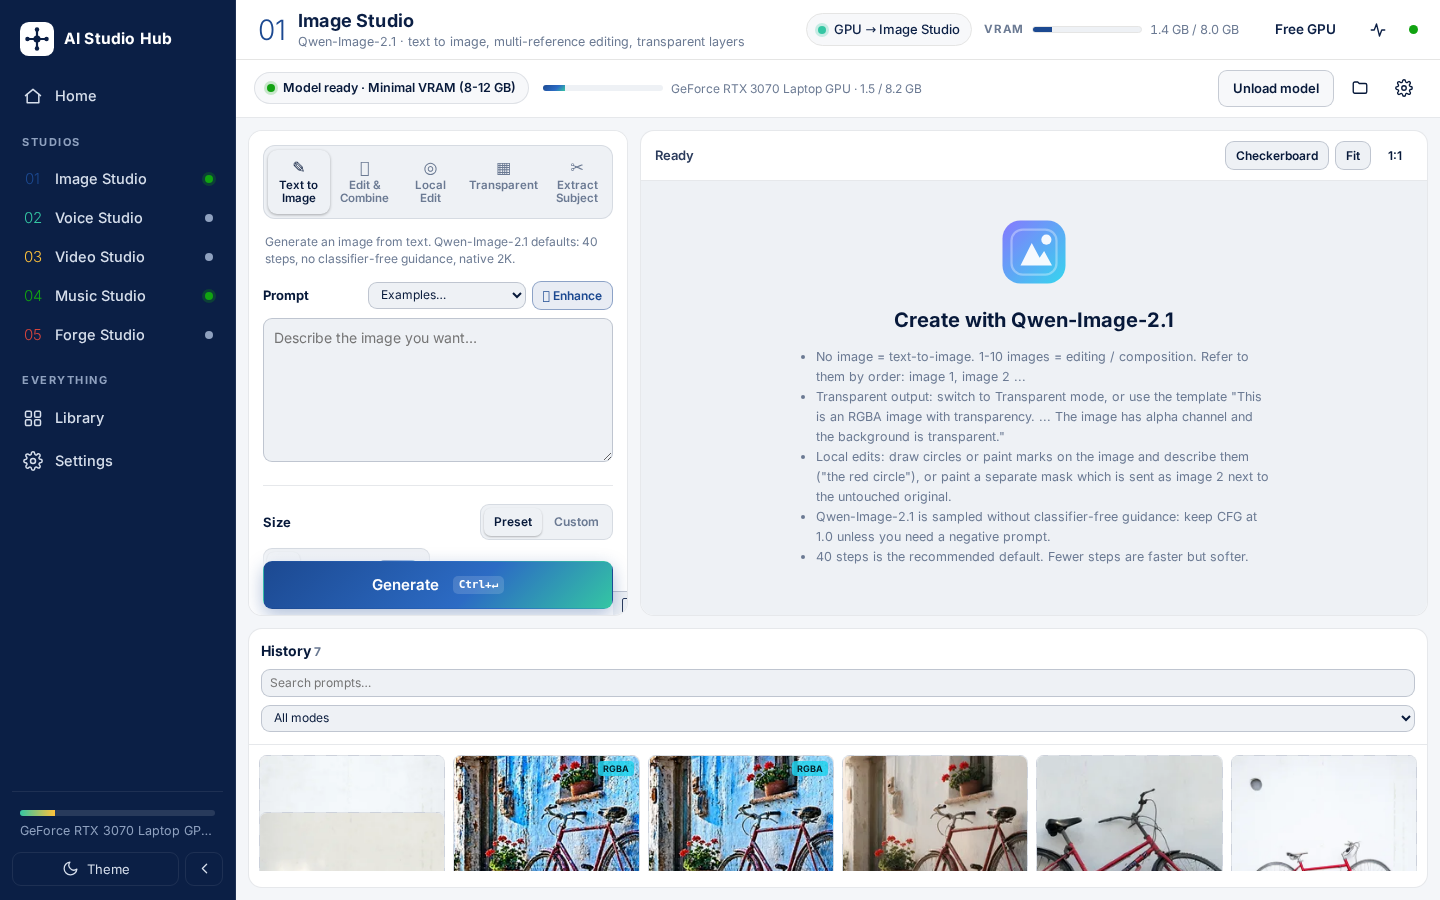
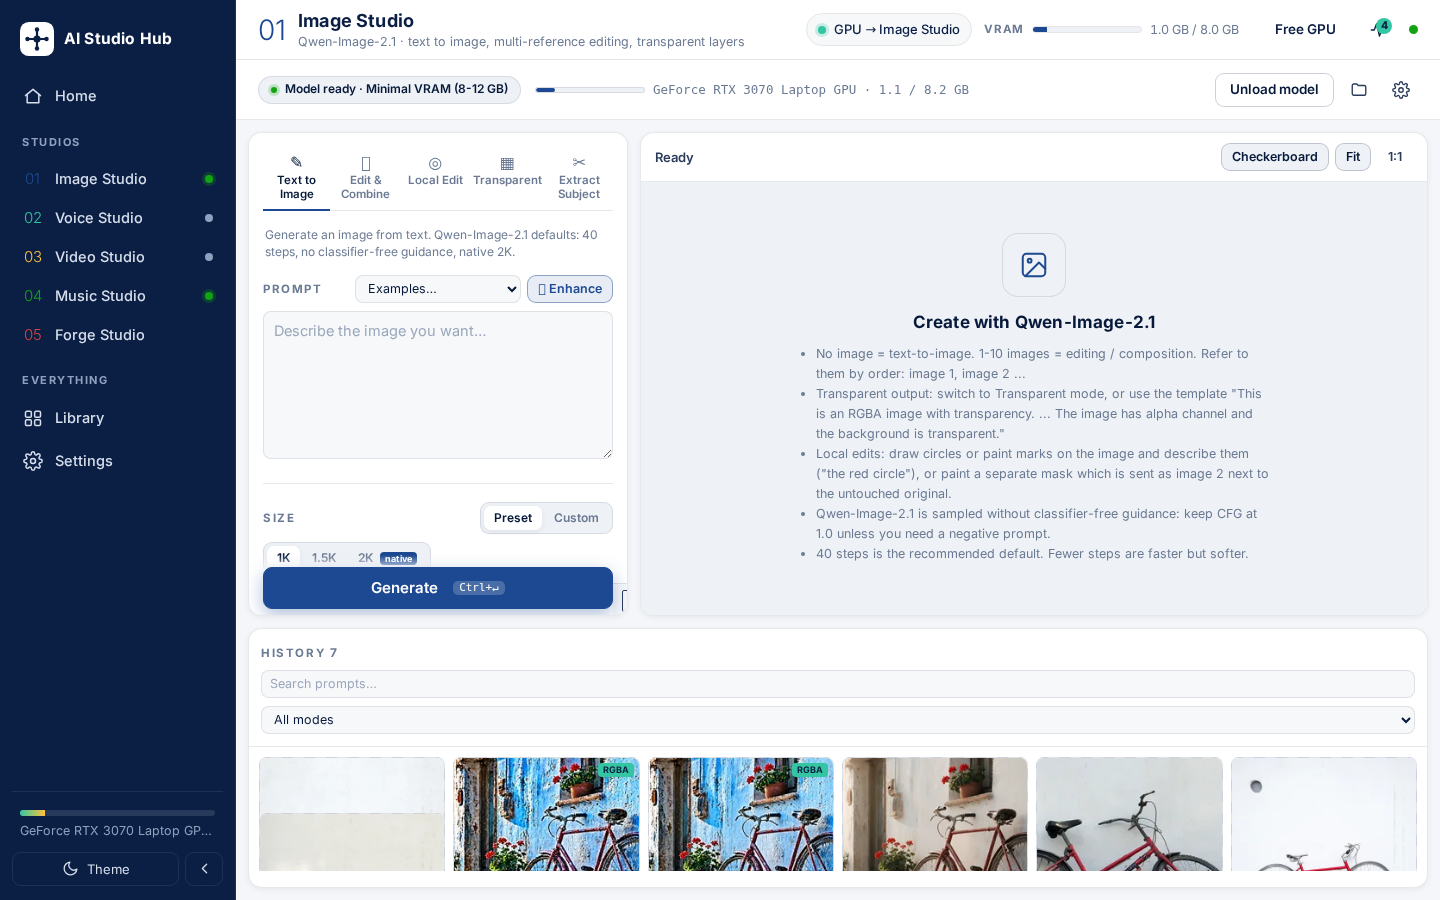
One design language for the hub and every studio
docs/design.md is the shared spec: tokens for light and dark, the studios'
signature colours, type, shapes, top bar and theme mechanics. Each studio now
implements it natively in its own repository (Image, Voice, Video, Music and
Forge, both its Gradio UI and its Studio app), so a studio looks the same on
its own and inside the hub.

The hub therefore stops restyling them: the bridge only keeps data-theme and
the dark class in step with the shell, and the per-studio files under
brand/tools/ are reduced to hiding the studio's brand block and theme toggle,
which the shell shows itself. The job chip in the top bar truncates instead of
pushing the actions off the bar. Screenshot of a studio inside the shell
refreshed.

diff --git a/hub/web/brand/tools/forge.css b/hub/web/brand/tools/forge.css
@@ -1,32 +1,4 @@
-/* Hub theme for Forge Studio (Stable Diffusion WebUI Forge - a Gradio 4 app). Maps Gradio's theme
-   variables; Forge's own layout, panels and controls are untouched. */
-html:root[data-hub-theme="light"] {
-  --body-background-fill: #F4F6F9; --background-fill-primary: #FFFFFF; --background-fill-secondary: #F7F8FA;
-  --block-background-fill: #FFFFFF; --panel-background-fill: #F7F8FA; --input-background-fill: #FFFFFF;
-  --border-color-primary: rgba(7, 25, 58, .12); --block-border-color: rgba(7, 25, 58, .12);
-  --input-border-color: rgba(7, 25, 58, .2); --body-text-color: #07193A; --body-text-color-subdued: #6B7A93;
-  --block-label-text-color: #2B3B5C; --block-title-text-color: #07193A;
-  --button-primary-background-fill: #1C4991; --button-primary-background-fill-hover: #2C6BC4;
-  --button-primary-border-color: #1C4991; --button-primary-text-color: #FFFFFF;
-  --button-secondary-background-fill: #EEF1F5; --button-secondary-text-color: #07193A;
-  --checkbox-background-color-selected: #1C4991; --slider-color: #1C4991; --link-text-color: #1C4991;
-  --color-accent: #1C4991; --color-accent-soft: rgba(28, 73, 145, .12);
-  --block-radius: 10px; --button-large-radius: 9px; --button-small-radius: 7px; --input-radius: 8px;
-}
-html:root[data-hub-theme="dark"] {
-  --body-background-fill: #061027; --background-fill-primary: #0B1B3B; --background-fill-secondary: #10244D;
-  --block-background-fill: #0B1B3B; --panel-background-fill: #10244D; --input-background-fill: #081633;
-  --border-color-primary: rgba(255, 255, 255, .1); --block-border-color: rgba(255, 255, 255, .1);
-  --input-border-color: rgba(255, 255, 255, .18); --body-text-color: #F2F5FA; --body-text-color-subdued: #8FA1BF;
-  --block-label-text-color: #C9D4E6; --block-title-text-color: #F2F5FA;
-  --button-primary-background-fill: #3F6FD1; --button-primary-background-fill-hover: #5A88E6;
-  --button-primary-border-color: #3F6FD1; --button-primary-text-color: #FFFFFF;
-  --button-secondary-background-fill: #162D5C; --button-secondary-text-color: #F2F5FA;
-  --checkbox-background-color-selected: #3F6FD1; --slider-color: #34C6A3; --link-text-color: #9dbcf5;
-  --color-accent: #3F6FD1; --color-accent-soft: rgba(63, 111, 209, .2);
-  --block-radius: 10px; --button-large-radius: 9px; --button-small-radius: 7px; --input-radius: 8px;
-}
-html:root[data-hub-theme] body, html:root[data-hub-theme] gradio-app { background: var(--body-background-fill) !important; }
-/* The shell already names the studio: hide Forge's own title/tab strip decoration, keep the tabs. */
-html:root[data-hub-theme] #tabs > .tab-nav { border-bottom-color: var(--border-color-primary); }
+/* Hub rules for Forge Studio. Forge's user.css and its Studio SPA implement the shared design language
+   natively (see docs/design.md) and honour html[data-theme] / .dark; the hub only hides what the shell shows. */
 html:root[data-hub-theme] #footer, html:root[data-hub-theme] .footer { display: none !important; }
+html:root[data-hub-theme] .brand, html:root[data-hub-theme] .theme-toggle { display: none !important; }

diff --git a/hub/web/brand/tools/image.css b/hub/web/brand/tools/image.css
@@ -1,28 +1,4 @@
-/* Hub theme for Image Studio (Qwen Image Studio). Maps the tool's own CSS variables. */
-html:root[data-hub-theme="light"] {
-  --bg: #F4F6F9; --bg-2: #EEF1F5; --panel: #FFFFFF; --panel-2: #F7F8FA; --panel-3: #EEF1F5;
-  --line: rgba(7, 25, 58, .10); --line-2: rgba(7, 25, 58, .20);
-  --text: #07193A; --text-2: #2B3B5C; --muted: #6B7A93;
-  --accent: #1C4991; --accent-2: #34C6A3; --accent-grad: linear-gradient(135deg, #1C4991 0%, #2C6BC4 60%, #34C6A3 100%);
-  --ok: #11A311; --warn: #C99400; --danger: #D6453D;
-  --shadow: 0 10px 30px rgba(7, 25, 58, .10);
-  --checker: repeating-conic-gradient(#e2e6ee 0 25%, #f8fafc 0 50%) 0 0 / 22px 22px;
-}
-html:root[data-hub-theme="dark"] {
-  --bg: #061027; --bg-2: #081633; --panel: #0B1B3B; --panel-2: #10244D; --panel-3: #162D5C;
-  --line: rgba(255, 255, 255, .09); --line-2: rgba(255, 255, 255, .18);
-  --text: #F2F5FA; --text-2: #C9D4E6; --muted: #8FA1BF;
-  --accent: #3F6FD1; --accent-2: #34C6A3; --accent-grad: linear-gradient(135deg, #3F6FD1 0%, #34C6A3 100%);
-  --ok: #3ACB5A; --warn: #FFC23B; --danger: #F07171;
-  --shadow: 0 10px 30px rgba(0, 0, 0, .35);
-  --checker: repeating-conic-gradient(#1a2a4d 0 25%, #10203f 0 50%) 0 0 / 22px 22px;
-}
-html:root[data-hub-theme] .btn.primary { box-shadow: 0 6px 18px rgba(28, 73, 145, .35); }
-html:root[data-hub-theme] .btn.accent { border-color: rgba(28, 73, 145, .45); color: var(--accent); background: rgba(28, 73, 145, .10); }
-html:root[data-hub-theme="dark"] .btn.accent { color: #9dbcf5; border-color: rgba(63, 111, 209, .55); background: rgba(63, 111, 209, .16); }
-html:root[data-hub-theme] .btn.danger { color: var(--danger); border-color: rgba(214, 69, 61, .5); background: rgba(214, 69, 61, .10); }
-html:root[data-hub-theme] .pill.state-ready .dot { box-shadow: 0 0 0 3px rgba(17, 163, 17, .2); }
-html:root[data-hub-theme] .pill.state-loading .dot { box-shadow: 0 0 0 3px rgba(52, 198, 163, .25); background: #34C6A3; }
-/* The shell already shows the studio's name: hide the tool's own brand block, keep its status and actions. */
-html:root[data-hub-theme] .topbar .brand { display: none !important; }
+/* Hub rules for Image Studio. The studio implements the shared design language natively (see docs/design.md)
+   and honours html[data-theme]; the hub only hides what the shell already shows. */
+html:root[data-hub-theme] .brand { display: none !important; }
 html:root[data-hub-theme] .topbar { border-bottom-color: var(--line); }

diff --git a/hub/web/brand/tools/video.css b/hub/web/brand/tools/video.css
@@ -1,22 +1,3 @@
-/* Hub theme for Video Studio (Lumen). Lumen uses Tailwind v4 theme variables (--color-*). */
-html:root[data-hub-theme="dark"] {
-  --color-bg: #061027; --color-panel: #0B1B3B; --color-panel-2: #10244D; --color-panel-3: #162D5C;
-  --color-line: rgba(255, 255, 255, .09); --color-line-2: rgba(255, 255, 255, .2);
-  --color-text: #F2F5FA; --color-muted: #8FA1BF; --color-dim: #5F7194;
-  --color-accent: #3F6FD1; --color-accent-2: #7FA7F0; --color-accent-soft: rgba(63, 111, 209, .18);
-  --color-ok: #3ACB5A; --color-warn: #FFC23B; --color-danger: #F07171; --color-info: #7FB2FF;
-}
-html:root[data-hub-theme="light"] {
-  --color-bg: #F4F6F9; --color-panel: #FFFFFF; --color-panel-2: #F7F8FA; --color-panel-3: #EEF1F5;
-  --color-line: #E5E5E4; --color-line-2: #CFD5DE;
-  --color-text: #07193A; --color-muted: #6B7A93; --color-dim: #9AA7BB;
-  --color-accent: #1C4991; --color-accent-2: #34C6A3; --color-accent-soft: rgba(28, 73, 145, .12);
-  --color-ok: #11A311; --color-warn: #C99400; --color-danger: #D6453D; --color-info: #1C4991;
-}
-html:root[data-hub-theme="light"] .glass { background: var(--color-panel); }
-html:root[data-hub-theme] * { scrollbar-color: var(--color-line-2) transparent; }
-html:root[data-hub-theme] *::-webkit-scrollbar-thumb { background: var(--color-line-2); }
-html:root[data-hub-theme] input[type="range"]::-webkit-slider-thumb { box-shadow: 0 0 0 4px var(--color-accent-soft); }
-/* The shell shows the studio's name: hide Lumen's logo block in its top bar. */
-html:root[data-hub-theme] header.h-14 > div:first-child { display: none !important; }
-html:root[data-hub-theme] header.h-14 > .mx-2.h-6.w-px { display: none !important; }
+/* Hub rules for Video Studio (Lumen). The studio implements the shared design language natively (see
+   docs/design.md) and honours html[data-theme] / html.dark; the hub only hides what the shell already shows. */
+html:root[data-hub-theme] .brand, html:root[data-hub-theme] .brand-sep, html:root[data-hub-theme] .theme-toggle { display: none !important; }

diff --git a/hub/web/brand/bridge.js b/hub/web/brand/bridge.js
@@ -15,8 +15,11 @@
     html.setAttribute("data-hub-theme", t);
     if (cfg.fonts) html.setAttribute("data-hub-fonts", "1"); else html.removeAttribute("data-hub-fonts");
     if (!cfg.restyle) { applying = false; return; }
-    if (cfg.tool === "image" || cfg.tool === "tts" || cfg.tool === "music") html.setAttribute("data-theme", t);
-    if (cfg.tool === "video") { html.classList.toggle("dark", t === "dark"); html.classList.toggle("light", t !== "dark"); }
+    // Every studio implements the shared design language natively and honours html[data-theme];
+    // the React and Gradio apps also read a "dark" class, so both are kept in step.
+    html.setAttribute("data-theme", t);
+    html.classList.toggle("dark", t === "dark"); html.classList.toggle("light", t !== "dark");
+    if (document.body) { document.body.classList.toggle("dark", t === "dark"); document.body.classList.toggle("light", t !== "dark"); }
     html.style.colorScheme = t;
     var meta = document.querySelector('meta[name="color-scheme"]');
     if (meta) meta.setAttribute("content", t);
@@ -31,8 +34,7 @@
     new MutationObserver(function () {
       if (applying) return;
       var want = theme;
-      if ((cfg.tool === "image" || cfg.tool === "tts" || cfg.tool === "music") && html.getAttribute("data-theme") !== want) applyTheme(want);
-      if (cfg.tool === "video" && html.classList.contains("dark") !== (want === "dark")) applyTheme(want);
+      if (html.getAttribute("data-theme") !== want || html.classList.contains("dark") !== (want === "dark")) applyTheme(want);
     }).observe(html, { attributes: true, attributeFilter: ["data-theme", "class"] });
   }
 

diff --git a/hub/web/brand/tools/music.css b/hub/web/brand/tools/music.css
@@ -1,22 +1,3 @@
-/* Hub theme for Music Studio (Music Gen Studio). Maps the tool's own CSS variables. */
-html:root[data-hub-theme="light"] {
-  --bg: #F4F6F9; --bg-2: #EEF1F5; --panel: #FFFFFF; --panel-2: #F7F8FA;
-  --border: #E5E5E4; --border-strong: #CFD5DE;
-  --text: #07193A; --muted: #6B7A93; --faint: #9AA7BB;
-  --accent: #1C4991; --accent-2: #34C6A3; --accent-ink: #FFFFFF;
-  --ok: #11A311; --danger: #D6453D; --info: #1C4991;
-  --shadow: 0 1px 2px rgba(7, 25, 58, .06), 0 8px 24px rgba(7, 25, 58, .06);
-  color-scheme: light;
-}
-html:root[data-hub-theme="dark"] {
-  --bg: #061027; --bg-2: #081633; --panel: #0B1B3B; --panel-2: #10244D;
-  --border: rgba(255, 255, 255, .10); --border-strong: rgba(255, 255, 255, .22);
-  --text: #F2F5FA; --muted: #8FA1BF; --faint: #5F7194;
-  --accent: #34C6A3; --accent-2: #7FE0C8; --accent-ink: #07193A;
-  --ok: #3ACB5A; --danger: #F07171; --info: #7FB2FF;
-  --shadow: 0 1px 0 rgba(255, 255, 255, .03) inset, 0 8px 30px rgba(0, 0, 0, .35);
-  color-scheme: dark;
-}
-html:root[data-hub-theme] header.topbar .brand { display: none !important; }
-html:root[data-hub-theme] .pill.busy .dot { background: #34C6A3; }
-html:root[data-hub-theme] .pill.share { color: var(--info); border-color: rgba(28, 73, 145, .35); }
+/* Hub rules for Music Studio. The studio implements the shared design language natively (see docs/design.md)
+   and honours html[data-theme]; the hub only hides what the shell already shows. */
+html:root[data-hub-theme] .brand, html:root[data-hub-theme] .theme-toggle, html:root[data-hub-theme] #btn-theme { display: none !important; }

diff --git a/hub/web/brand/tools/tts.css b/hub/web/brand/tools/tts.css
@@ -1,20 +1,3 @@
-/* Hub theme for Voice Studio (Text To Speech generator). Maps the tool's own CSS variables. */
-html:root[data-hub-theme="light"] {
-  --bg: #F4F6F9; --bg-2: #FFFFFF; --bg-3: #EEF1F5;
-  --text: #07193A; --muted: #6B7A93; --border: #E5E5E4;
-  --accent: #1C4991; --accent-2: #16397A; --accent-soft: #E3ECF9;
-  --danger: #D6453D; --danger-soft: #FBE5E3; --ok: #11A311; --warn: #C99400;
-  --shadow: 0 6px 24px rgba(7, 25, 58, .07);
-}
-html:root[data-hub-theme="dark"] {
-  --bg: #061027; --bg-2: #0B1B3B; --bg-3: #10244D;
-  --text: #F2F5FA; --muted: #8FA1BF; --border: rgba(255, 255, 255, .12);
-  --accent: #3F6FD1; --accent-2: #5F8BE6; --accent-soft: #16305F;
-  --danger: #F07171; --danger-soft: #4A1F22; --ok: #3ACB5A; --warn: #FFC23B;
-  --shadow: 0 6px 24px rgba(0, 0, 0, .35);
-}
-html:root[data-hub-theme] .topbar .brand { display: none !important; }
-html:root[data-hub-theme] .tab.active { color: var(--accent); border-bottom-color: #34C6A3; }
-html:root[data-hub-theme] .seg-btn.active { box-shadow: 0 1px 4px rgba(7, 25, 58, .10); }
-html:root[data-hub-theme] .dot.ready, html:root[data-hub-theme] .dot.ok { background: var(--ok); }
-html:root[data-hub-theme] .dot.loading { background: #34C6A3; }
+/* Hub rules for Voice Studio. The studio implements the shared design language natively (see docs/design.md)
+   and honours html[data-theme]; the hub only hides what the shell already shows. */
+html:root[data-hub-theme] .topbar .brand, html:root[data-hub-theme] .brand { display: none !important; }

diff --git a/hub/web/app.js b/hub/web/app.js
@@ -505,8 +505,8 @@
     ] },
     { title: "Appearance", lead: "The theme of the shell and, if you like, of the studios inside it.", fields: [
       { key: "theme", label: "Theme", type: "select", options: [["light", "Light"], ["dark", "Dark"]] },
-      { key: "restyle_tools", label: "Apply the hub theme inside the studios", type: "bool", help: "Turn off to see each tool's original look. Takes effect when a studio is reloaded." },
-      { key: "brand_fonts_in_tools", label: "Hub font inside the studios", type: "bool", help: "Use the hub's font (Inter) for headings and buttons inside the tools." },
+      { key: "restyle_tools", label: "Keep the studios' theme in step with the shell", type: "bool", help: "Light or dark follows the shell inside every studio. Turn off to let each studio keep its own setting. Takes effect when a studio is reloaded." },
+      { key: "brand_fonts_in_tools", label: "Hub font inside the studios", type: "bool", help: "Use the hub's font (Inter) for headings and buttons inside older studio versions that do not ship it themselves." },
     ] },
     { title: "Network", lead: "Changes here need a restart of the hub.", fields: [
       { key: "bind_host", label: "Listen on", type: "select", options: [["127.0.0.1", "This PC only"], ["0.0.0.0", "Everyone on my network"]], help: "Sharing on the network also needs a firewall rule for ports 7900-7905 (see README)." },

diff --git a/hub/web/styles.css b/hub/web/styles.css
@@ -104,6 +104,11 @@ body.collapsed #btnCollapse { flex: none; }
 /* The status block gives way before the studio's name does: meters go first on narrower windows. */
 .top-status { flex: 0 1 auto; min-width: 0; }
 @media (max-width: 1560px) { #meterRam { display: none; } }
+/* The job chip must never push the actions off the bar: it truncates instead. */
+.chip.jobs { max-width: 240px; overflow: hidden; }
+.chip.jobs > span:last-child { overflow: hidden; text-overflow: ellipsis; white-space: nowrap; }
+@media (max-width: 1500px) { .chip.jobs { max-width: 170px; } }
+
 @media (max-width: 1360px) { #meterVram { display: none; } }
 .top-sub { font-size: 12.5px; color: var(--muted); white-space: nowrap; overflow: hidden; text-overflow: ellipsis; max-width: 42vw; }
 .top-num { font-weight: 300; font-size: 28px; color: var(--tool, var(--teal)); line-height: 1; }

diff --git a/docs/design.md b/docs/design.md
@@ -1,0 +1,91 @@
+# AI Studio design language
+
+The shell of AI Studio Hub and every studio inside it share one design language, so a studio looks the
+same on its own and inside the hub. This page is the reference; `hub/web/styles.css` is the canonical
+implementation of the tokens, and each studio implements the same tokens natively in its own stylesheet
+(the hub only *syncs the theme* into a studio, it no longer restyles it).
+
+## Tokens
+
+| Token | Light | Dark |
+|---|---|---|
+| `bg` (page) | `#F4F6F9` | `#061027` |
+| `panel` (cards, top bar) | `#FFFFFF` | `#0B1B3B` |
+| `panel-2` (inputs, secondary surfaces) | `#F7F8FA` | `#10244D` |
+| `panel-3` (hover, chips, code) | `#EEF1F5` | `#162D5C` |
+| `line` (borders) | `#E5E5E4` | `rgba(255,255,255,.09)` |
+| `line-2` (strong borders, scrollbars) | `#CFD5DE` | `rgba(255,255,255,.18)` |
+| `text` | `#0B1F45` | `#F2F5FA` |
+| `text-2` | `#2B3B5C` | `#C9D4E6` |
+| `muted` | `#6B7A93` | `#8FA1BF` |
+| `faint` | `#9AA7BB` | `#5F7194` |
+| `accent` (primary actions, links, focus) | `#1C4991` (hover `#2C6BC4`) | `#3F6FD1` (hover `#5A88E6`) |
+| `accent-ink` (text on accent) | `#FFFFFF` | `#FFFFFF` |
+| `accent-soft` (selected / focus ring) | `rgba(28,73,145,.10)` | `rgba(63,111,209,.20)` |
+| `busy` (progress, "working") | `#34C6A3` | `#34C6A3` |
+| `ok` | `#11A311` | `#3ACB5A` |
+| `warn` / `warn-bg` | `#C99400` / `#FFF4D6` | `#FFC23B` / `rgba(255,194,59,.12)` |
+| `danger` / `danger-bg` | `#D6453D` / `#FBE5E3` | `#F07171` / `rgba(240,113,113,.14)` |
+| `shadow` (cards, popovers) | `0 10px 30px rgba(7,25,58,.08)` | `0 10px 30px rgba(0,0,0,.35)` |
+| `shadow-2` (small) | `0 2px 6px rgba(7,25,58,.06)` | `0 2px 6px rgba(0,0,0,.3)` |
+| `ink` (brand navy, the shell's rail) | `#0B1F45` | `#0B1F45` |
+
+Brand set: navy `#0B1F45`, blue `#1C4991`, teal `#34C6A3`, green `#11A311`, yellow `#FFC23B`, grey `#E5E5E4`.
+No purple, no gradients, no glows. Colour is carried by the artwork; the UI stays calm.
+
+### Studio signature colours
+
+Each studio has one signature colour, used for its number, its mark in its own top bar, its active-tab
+underline and its status dot. Primary buttons stay `accent` blue in every studio.
+
+| Studio | Signature |
+|---|---|
+| 01 Image Studio | `#1C4991` |
+| 02 Voice Studio | `#34C6A3` |
+| 03 Video Studio | `#FFC23B` |
+| 04 Music Studio | `#11A311` |
+| 05 Forge Studio | `#D6453D` |
+
+## Type
+
+* **UI:** Inter (`"Inter", "Segoe UI Variable", "Segoe UI", system-ui, -apple-system, sans-serif`), base
+  14.5px / 1.4, `-webkit-font-smoothing: antialiased`. Load it from Google Fonts with the system fallback
+  (Forge bundles InterVariable and stays offline).
+* **Headings:** 700, letter-spacing `.01em`; page/section titles 16–18px, top-bar name 17px.
+* **Eyebrow labels** (section headers such as PROMPT, MODEL): 11.5px, uppercase, letter-spacing `.14em`,
+  700, `muted`.
+* **Display accent** (a hero or an empty-state title only): Fraunces 300, optional.
+* **Mono:** `"Cascadia Code", Consolas, "JetBrains Mono", monospace` for seeds, sizes, logs.
+
+## Shape and components
+
+* **Cards / panels:** `panel` background, 1px `line` border, radius **14px**, `shadow-2`; popovers and
+  dialogs radius 18px with `shadow`.
+* **Buttons:** radius **9px**, 34px tall, 600 weight, 13.5px. Primary = `accent` background, `accent-ink`
+  text, `0 6px 18px rgba(28,73,145,.35)` shadow, hover lifts to the hover colour. Secondary = `panel`
+  background, 1px `line`, `text`. Ghost = transparent, 1px `line`, `text-2`. Danger = `danger-bg`
+  background, `danger` text. Disabled = 50% opacity.
+* **Inputs, selects, textareas:** `panel-2` background, 1px `line`, radius **8px**, 34px tall,
+  focus = `accent` border + 3px `accent-soft` ring. Range sliders: 4px track `line-2`, filled part
+  `accent`, 14px white thumb with a 2px `accent` border.
+* **Pills / badges:** radius 999, 12px, 600, `panel-3` background, 1px `line`; a 6px dot in `ok`, `busy`,
+  `warn` or `danger` for state.
+* **Tabs:** text `muted`, active `text` with a 2px underline in the studio's signature colour.
+* **Segmented controls / chips:** `panel-3` background, selected chip = `panel` with `shadow-2` (light)
+  or `accent-soft` (dark).
+* **Progress:** 6px track `panel-3`, fill `busy` teal, radius 999.
+* **Scrollbars:** thin, thumb `line-2`, track transparent.
+* **Top bar:** 60px, `panel`, bottom 1px `line`. Left: the studio's mark (34px rounded square in the
+  signature colour with a white icon), name (17px 700) and tagline (12.5px `muted`). Right: status pill,
+  GPU readout (mono), actions, theme toggle. Inside the hub the shell shows the studio's name, so the
+  brand block is hidden there (`html[data-hub-theme] .brand { display: none }`).
+* **Empty states:** centred, a 64px rounded icon tile in `panel-3`, a 17px title, `muted` copy.
+* **Motion:** 150–250ms ease; nothing bounces.
+
+## Theme mechanics
+
+* Light is the default. `html[data-theme="dark"]` switches to dark; with no attribute the studio may
+  follow `prefers-color-scheme`. The studio's own toggle writes `data-theme` and remembers it.
+* The hub's bridge sets `data-theme` (and `data-hub-theme`) on the studio's `<html>` and keeps it in
+  step with the shell, so a studio only has to honour `data-theme`.
+* `color-scheme` follows the theme so native controls and scrollbars match.

diff --git a/README.md b/README.md
@@ -131,7 +131,7 @@ Also built in:
 ## The shell
 
 * **Home** — the card's live VRAM, a sparkline, the studios with their model state, running jobs with progress, and the recent activity.
-* **Studios** — each tool runs inside the shell (Alt+1 … Alt+5) with the hub's theme applied to its UI (Settings → Appearance to turn that off). Their own top-bar branding is replaced by the shell's; everything else is the original UI.
+* **Studios** — each tool runs inside the shell (Alt+1 … Alt+5). Every studio implements the same design language natively (see [docs/design.md](docs/design.md)), so it looks the same on its own and inside the hub; the shell only keeps the studio's light/dark theme in step with its own (Settings → Appearance) and hides the studio's own top-bar branding, since the shell shows its name.
 * **Library** — every image, clip, video and song the studios have ever made, in one searchable grid with a viewer, downloads and "open folder". It reads the tools' output folders directly (Forge's prompts come from the PNG metadata), so it works even when a studio is off.
 * **Settings** — GPU policy and timers, appearance, network, per-studio folders / ports / autostart / pinning, and a check-up of what is installed.
 * Light and dark themes; the theme is applied inside the studios too.
